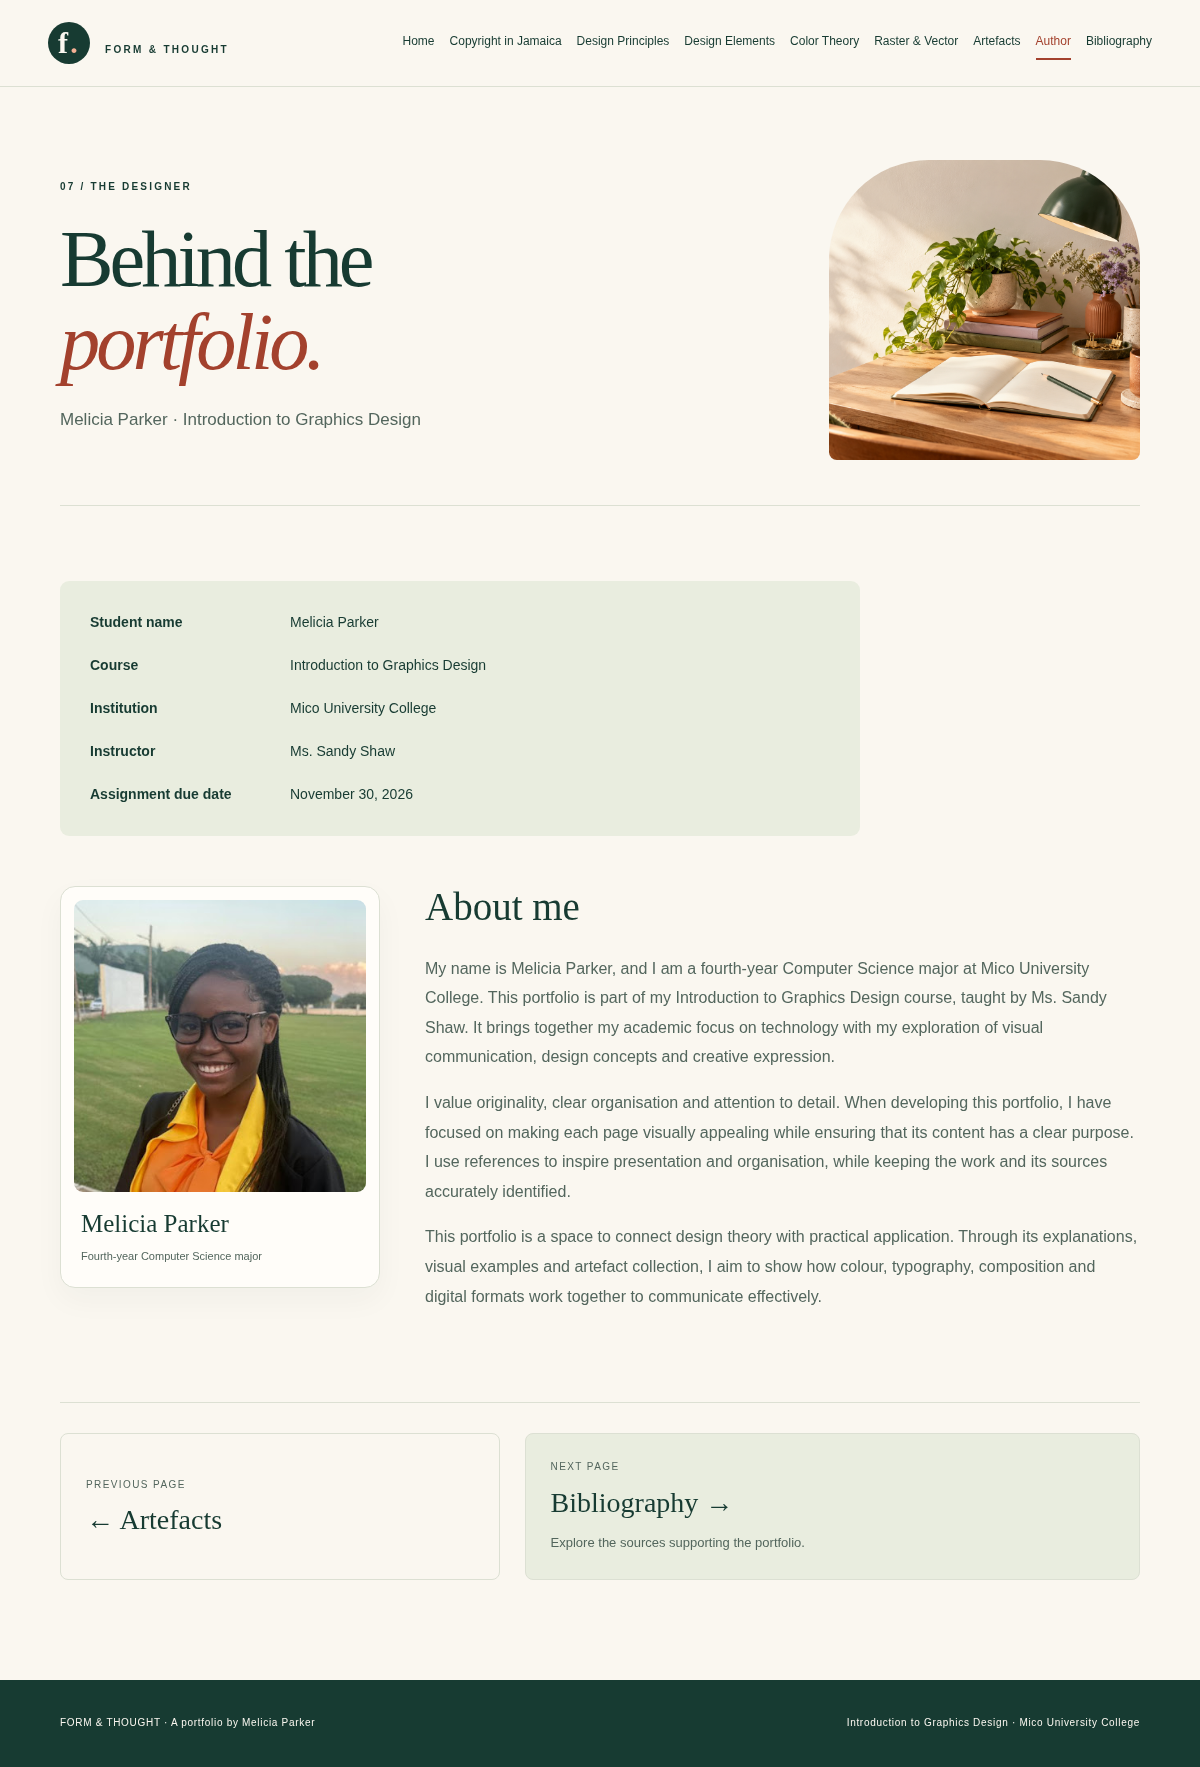
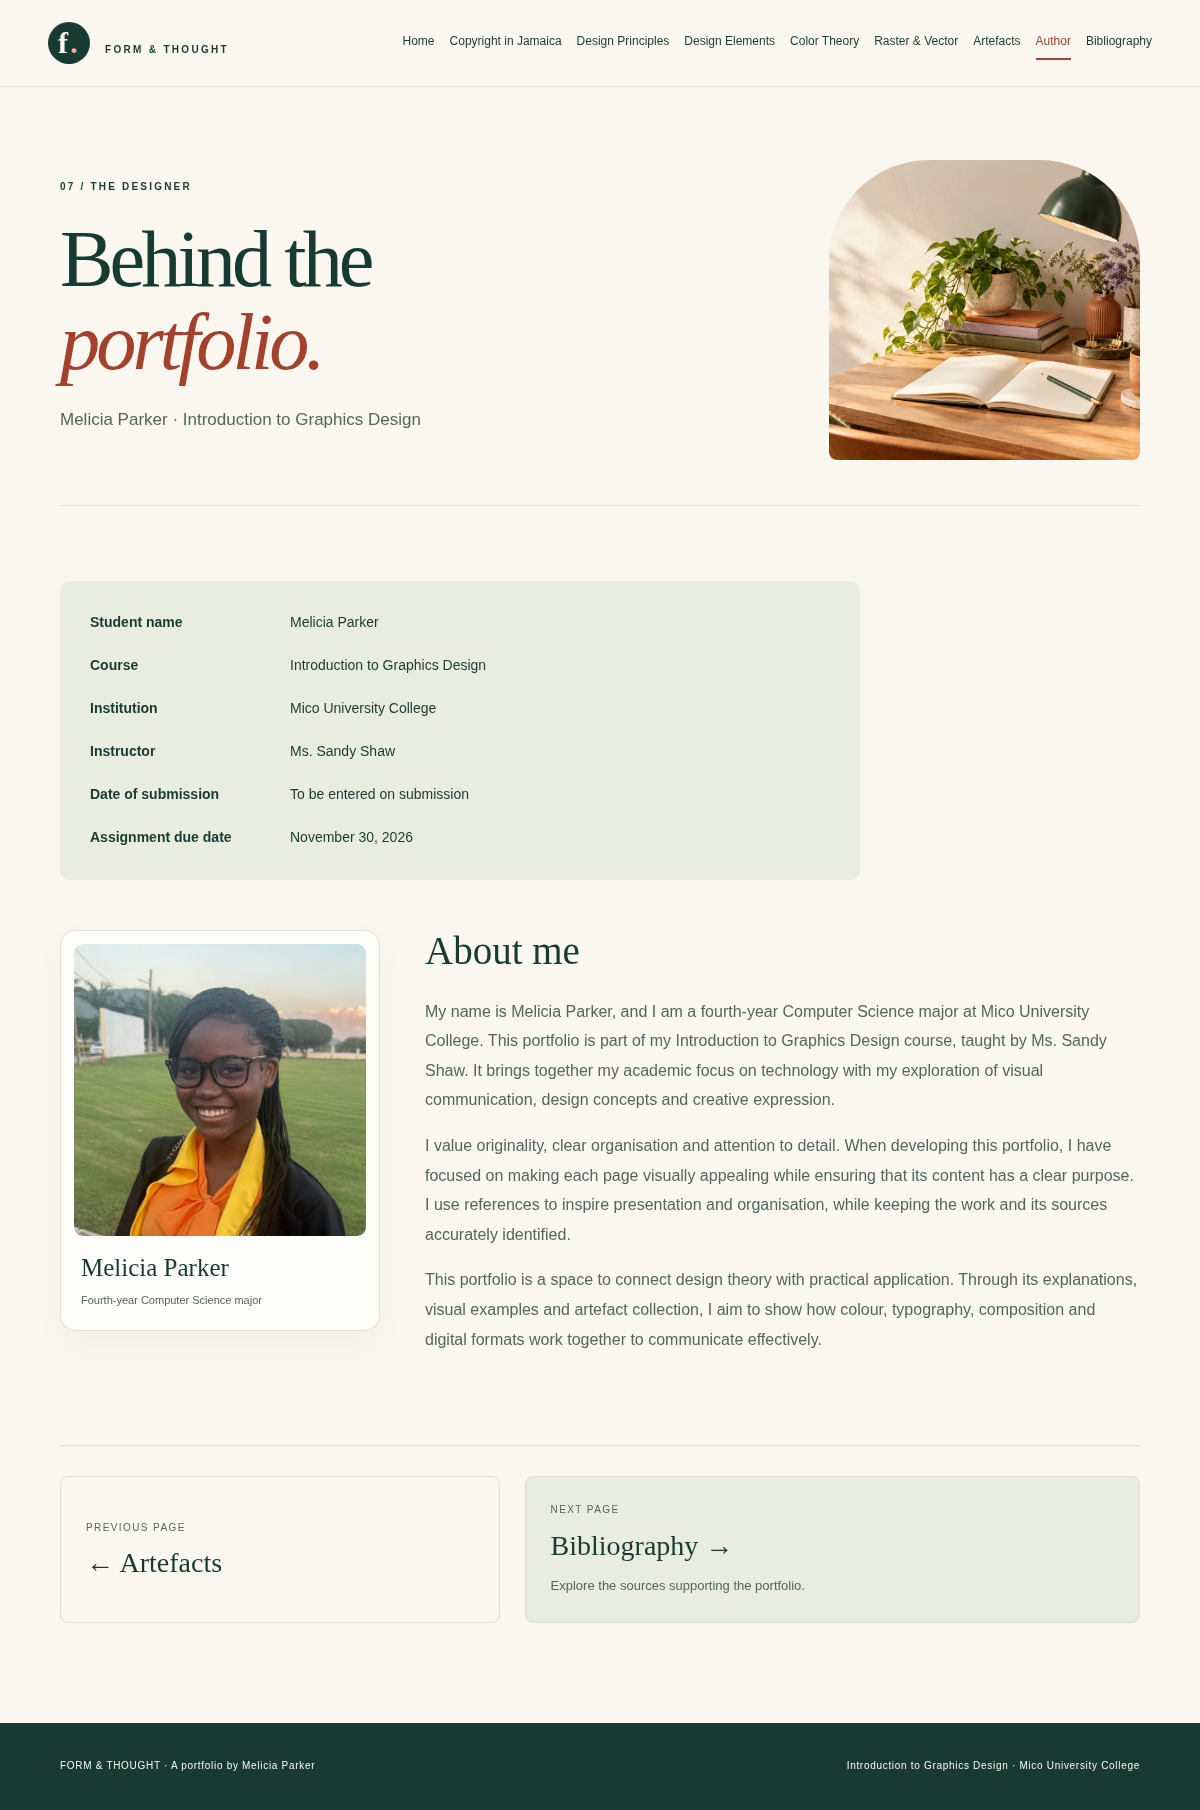
Restore submission date field on the Author page

diff --git a/portfolio/author.html b/portfolio/author.html
@@ -1,1 +1,1 @@
-<!doctype html><html lang="en"><head><meta charset="utf-8"><meta name="viewport" content="width=device-width, initial-scale=1"><meta name="description" content="Graphics design portfolio exploring theory and practical coursework."><title>Author · Form &amp; Thought</title><link rel="stylesheet" href="./assets/style.css"><script src="./assets/app.js" defer></script></head><body class="page-author"><a class="skip" href="#main">Skip to content</a><header><a class="brand" href="index.html"><span class="brand-mark" aria-hidden="true">f<span>.</span></span> FORM &amp; THOUGHT</a><button class="menu" aria-controls="navigation" aria-expanded="false">Menu</button><nav id="navigation" aria-label="Main navigation"><a href="index.html">Home</a><a href="copyright.html">Copyright in Jamaica</a><a href="principles.html">Design Principles</a><a href="elements.html">Design Elements</a><a href="color.html">Color Theory</a><a href="raster-vector.html">Raster & Vector</a><a href="artefacts.html">Artefacts</a><a href="author.html" aria-current="page">Author</a><a href="bibliography.html">Bibliography</a></nav></header><main id="main"><section class="page-heading"><div class="page-heading-copy"><p class="eyebrow">07 / THE DESIGNER</p><h1>Behind the<br><em>portfolio.</em></h1><p class="lede">Melicia Parker · Introduction to Graphics Design</p></div><figure class="page-photo"><img src="assets/banners/author.png" alt="Illustrative workspace with notebook, lamp and plant." width="1672" height="941" decoding="async"></figure></section><section class="intro"><dl><dt>Student name</dt><dd>Melicia Parker</dd><dt>Course</dt><dd>Introduction to Graphics Design</dd><dt>Institution</dt><dd>Mico University College</dd><dt>Instructor</dt><dd>Ms. Sandy Shaw</dd><dt>Assignment due date</dt><dd>November 30, 2026</dd></dl><div class="author-biography"><figure class="author-portrait"><img src="./assets/professional%20headshot.jpg" alt="Melicia Parker" width="360" height="360" loading="lazy" decoding="async"><figcaption><strong>Melicia Parker</strong><span>Fourth-year Computer Science major</span></figcaption></figure><div class="author-bio-copy"><h2>About me</h2><p>My name is Melicia Parker, and I am a fourth-year Computer Science major at Mico University College. This portfolio is part of my Introduction to Graphics Design course, taught by Ms. Sandy Shaw. It brings together my academic focus on technology with my exploration of visual communication, design concepts and creative expression.</p><p>I value originality, clear organisation and attention to detail. When developing this portfolio, I have focused on making each page visually appealing while ensuring that its content has a clear purpose. I use references to inspire presentation and organisation, while keeping the work and its sources accurately identified.</p><p>This portfolio is a space to connect design theory with practical application. Through its explanations, visual examples and artefact collection, I aim to show how colour, typography, composition and digital formats work together to communicate effectively.</p></div></div></section><nav class="page-journey" aria-label="Page navigation"><a class="journey-back" href="artefacts.html"><span>Previous page</span><strong>&larr; Artefacts</strong></a><a class="journey-next" href="bibliography.html"><span>Next page</span><strong>Bibliography &rarr;</strong><p>Explore the sources supporting the portfolio.</p></a></nav></main><footer><span>FORM &amp; THOUGHT · A portfolio by Melicia Parker</span><span>Introduction to Graphics Design · Mico University College</span></footer></body></html>
+<!doctype html><html lang="en"><head><meta charset="utf-8"><meta name="viewport" content="width=device-width, initial-scale=1"><meta name="description" content="Graphics design portfolio exploring theory and practical coursework."><title>Author · Form &amp; Thought</title><link rel="stylesheet" href="./assets/style.css"><script src="./assets/app.js" defer></script></head><body class="page-author"><a class="skip" href="#main">Skip to content</a><header><a class="brand" href="index.html"><span class="brand-mark" aria-hidden="true">f<span>.</span></span> FORM &amp; THOUGHT</a><button class="menu" aria-controls="navigation" aria-expanded="false">Menu</button><nav id="navigation" aria-label="Main navigation"><a href="index.html">Home</a><a href="copyright.html">Copyright in Jamaica</a><a href="principles.html">Design Principles</a><a href="elements.html">Design Elements</a><a href="color.html">Color Theory</a><a href="raster-vector.html">Raster & Vector</a><a href="artefacts.html">Artefacts</a><a href="author.html" aria-current="page">Author</a><a href="bibliography.html">Bibliography</a></nav></header><main id="main"><section class="page-heading"><div class="page-heading-copy"><p class="eyebrow">07 / THE DESIGNER</p><h1>Behind the<br><em>portfolio.</em></h1><p class="lede">Melicia Parker · Introduction to Graphics Design</p></div><figure class="page-photo"><img src="assets/banners/author.png" alt="Illustrative workspace with notebook, lamp and plant." width="1672" height="941" decoding="async"></figure></section><section class="intro"><dl><dt>Student name</dt><dd>Melicia Parker</dd><dt>Course</dt><dd>Introduction to Graphics Design</dd><dt>Institution</dt><dd>Mico University College</dd><dt>Instructor</dt><dd>Ms. Sandy Shaw</dd><dt>Date of submission</dt><dd>To be entered on submission</dd><dt>Assignment due date</dt><dd>November 30, 2026</dd></dl><div class="author-biography"><figure class="author-portrait"><img src="./assets/professional%20headshot.jpg" alt="Melicia Parker" width="360" height="360" loading="lazy" decoding="async"><figcaption><strong>Melicia Parker</strong><span>Fourth-year Computer Science major</span></figcaption></figure><div class="author-bio-copy"><h2>About me</h2><p>My name is Melicia Parker, and I am a fourth-year Computer Science major at Mico University College. This portfolio is part of my Introduction to Graphics Design course, taught by Ms. Sandy Shaw. It brings together my academic focus on technology with my exploration of visual communication, design concepts and creative expression.</p><p>I value originality, clear organisation and attention to detail. When developing this portfolio, I have focused on making each page visually appealing while ensuring that its content has a clear purpose. I use references to inspire presentation and organisation, while keeping the work and its sources accurately identified.</p><p>This portfolio is a space to connect design theory with practical application. Through its explanations, visual examples and artefact collection, I aim to show how colour, typography, composition and digital formats work together to communicate effectively.</p></div></div></section><nav class="page-journey" aria-label="Page navigation"><a class="journey-back" href="artefacts.html"><span>Previous page</span><strong>&larr; Artefacts</strong></a><a class="journey-next" href="bibliography.html"><span>Next page</span><strong>Bibliography &rarr;</strong><p>Explore the sources supporting the portfolio.</p></a></nav></main><footer><span>FORM &amp; THOUGHT · A portfolio by Melicia Parker</span><span>Introduction to Graphics Design · Mico University College</span></footer></body></html>

diff --git a/portfolio/SUBMISSION_CHECKLIST.md b/portfolio/SUBMISSION_CHECKLIST.md
@@ -6,5 +6,6 @@ This checklist is for preparation and is not displayed on the portfolio pages.
 - Name the actual software used for each artifact and briefly explain the demonstrated skill. Do not treat category-cover illustrations as coursework.
 - Check the legal overview against current Jamaican legislation; official legal sources have not yet been consulted in this environment.
 - Add references for any additional images, fonts, audio, video and other external assets used in the practical work.
+- Enter the actual submission date on the Author page.
 - Review all content and follow the instructor's requirements for permitted assistance and original coursework.
 - Test shared access to every practical file before submission.

diff --git a/portfolio/GOOGLE_SITES_CONTENT.md b/portfolio/GOOGLE_SITES_CONTENT.md
@@ -522,6 +522,7 @@ Student name: Melicia Parker
 Course: Introduction to Graphics Design
 Institution: Mico University College
 Instructor: Ms. Sandy Shaw
+Date of submission: To be entered on submission
 Assignment due date: November 30, 2026
 
 ## About me
